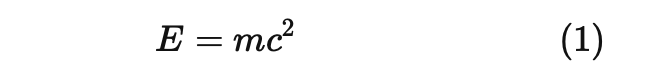
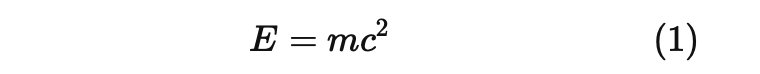
Drop the smash formula from the comparison, and keep a widened crop within the page

Changed region(s): [[0.2108, 0.2432, 0.512, 0.7027], [0.8434, 0.2973, 0.9337, 0.8108]]

diff --git a/test/screenshots/content.html b/test/screenshots/content.html
@@ -61,7 +61,3 @@
 <!-- wp:math -->
 <div class="wp-block-math"><math display="block"><semantics><mrow><mrow><munder><munder><mrow><msub><mi>x</mi><mn>1</mn></msub><mo>+</mo><msub><mi>x</mi><mn>2</mn></msub><mo>+</mo><mo>⋯</mo><mo>+</mo><msub><mi>x</mi><mi>n</mi></msub></mrow><mo stretchy="true" style="math-depth:0;">⏟</mo></munder><mrow><mi>n</mi><mtext> terms</mtext></mrow></munder></mrow><mo>=</mo><mrow><mover><mover><mi>y</mi><mo stretchy="true" style="math-depth:0;">⏞</mo></mover><mpadded lspace="-0.5width" width="0px" style="display:flex;justify-content:center;"><mtext>wide label here</mtext></mpadded></mover></mrow></mrow><annotation encoding="application/x-tex">\underbrace{x_1 + x_2 + \cdots + x_n}_{n \text{ terms}} = \overbrace{y}^{\mathclap{\text{wide label here}}}</annotation></semantics></math></div>
 <!-- /wp:math -->
-
-<!-- wp:math -->
-<div class="wp-block-math"><math display="block"><semantics><mrow><mi>a</mi><mpadded height="0px" depth="0px"><mfrac><mn>1</mn><mn>2</mn></mfrac></mpadded><mi>b</mi></mrow><annotation encoding="application/x-tex">a \smash{\frac{1}{2}} b</annotation></semantics></math></div>
-<!-- /wp:math -->

diff --git a/test/screenshots/compare.spec.js b/test/screenshots/compare.spec.js
@@ -143,16 +143,18 @@ test( 'each formula with and without the plugin @screenshots', async ( {
 		for ( const [ id, pair ] of Object.entries( boxes ) ) {
 			const box = pair[ name ];
 			const width = Math.max( pair.mathml.width, pair.katex.width );
+			// Centred on the formula, but kept within the page, which
+			// would otherwise cut the clip short (a tagged equation sits
+			// at the right edge).
+			const x = Math.min(
+				Math.max( box.x - ( width - box.width ) / 2, 0 ),
+				page.viewportSize().width - width
+			);
 			await page.screenshot( {
 				path: path.join( dir, `${ id }-${ name }.png` ),
 				scale: 'device',
 				fullPage: true,
-				clip: {
-					x: box.x - ( width - box.width ) / 2,
-					y: box.y,
-					width,
-					height: box.height,
-				},
+				clip: { x, y: box.y, width, height: box.height },
 			} );
 		}
 	}

diff --git a/README.md b/README.md
@@ -28,13 +28,12 @@ Each formula as the browser renders the MathML on the left and as KaTeX renders 
 | `\hat{x} + \vec{v} + \widehat{abc} + \overline{z} + \tilde{n} + \dot{y}` | <img src="screenshots/chromium/07-mathml.png" width="201"> | <img src="screenshots/chromium/07-katex.png" width="201"> |
 | `\overbrace{a + b + c}^{\text{sum}} + \underbrace{d \cdot e}_{\text{product}}` | <img src="screenshots/chromium/08-mathml.png" width="149"> | <img src="screenshots/chromium/08-katex.png" width="149"> |
 | `\boxed{E = mc^2}` | <img src="screenshots/chromium/09-mathml.png" width="95"> | <img src="screenshots/chromium/09-katex.png" width="95"> |
-| `E = mc^2 \tag{1}` | <img src="screenshots/chromium/10-mathml.png" width="392"> | <img src="screenshots/chromium/10-katex.png" width="338"> |
+| `E = mc^2 \tag{1}` | <img src="screenshots/chromium/10-mathml.png" width="392"> | <img src="screenshots/chromium/10-katex.png" width="392"> |
 | `\cancel{a} + \bcancel{b} + \xcancel{c} + \sout{d}` | <img src="screenshots/chromium/11-mathml.png" width="114"> | <img src="screenshots/chromium/11-katex.png" width="114"> |
 | `A \xrightarrow{\;f\;} B \xleftarrow[\text{under}]{\text{over}} C \xrightleftharpoons{k} D` | <img src="screenshots/chromium/12-mathml.png" width="207"> | <img src="screenshots/chromium/12-katex.png" width="207"> |
 | `\begin{CD} A @>a>> B \\ @VbVV @VVcV \\ C @>>d> D \end{CD}` | <img src="screenshots/chromium/13-mathml.png" width="153"> | <img src="screenshots/chromium/13-katex.png" width="153"> |
 | `\sum_{\substack{0 < i < m \\ 0 < j < n}} P(i, j)` | <img src="screenshots/chromium/14-mathml.png" width="116"> | <img src="screenshots/chromium/14-katex.png" width="116"> |
 | `\underbrace{x_1 + x_2 + \cdots + x_n}_{n \text{ terms}} = \overbrace{y}^{\mathclap{\text{wide label here}}}` | <img src="screenshots/chromium/15-mathml.png" width="275"> | <img src="screenshots/chromium/15-katex.png" width="275"> |
-| `a \smash{\frac{1}{2}} b` | <img src="screenshots/chromium/16-mathml.png" width="43"> | <img src="screenshots/chromium/16-katex.png" width="43"> |
 
 ### Safari
 
@@ -50,13 +49,12 @@ Each formula as the browser renders the MathML on the left and as KaTeX renders 
 | `\hat{x} + \vec{v} + \widehat{abc} + \overline{z} + \tilde{n} + \dot{y}` | <img src="screenshots/webkit/07-mathml.png" width="213"> | <img src="screenshots/webkit/07-katex.png" width="213"> |
 | `\overbrace{a + b + c}^{\text{sum}} + \underbrace{d \cdot e}_{\text{product}}` | <img src="screenshots/webkit/08-mathml.png" width="149"> | <img src="screenshots/webkit/08-katex.png" width="149"> |
 | `\boxed{E = mc^2}` | <img src="screenshots/webkit/09-mathml.png" width="95"> | <img src="screenshots/webkit/09-katex.png" width="95"> |
-| `E = mc^2 \tag{1}` | <img src="screenshots/webkit/10-mathml.png" width="380"> | <img src="screenshots/webkit/10-katex.png" width="332"> |
+| `E = mc^2 \tag{1}` | <img src="screenshots/webkit/10-mathml.png" width="380"> | <img src="screenshots/webkit/10-katex.png" width="380"> |
 | `\cancel{a} + \bcancel{b} + \xcancel{c} + \sout{d}` | <img src="screenshots/webkit/11-mathml.png" width="116"> | <img src="screenshots/webkit/11-katex.png" width="116"> |
 | `A \xrightarrow{\;f\;} B \xleftarrow[\text{under}]{\text{over}} C \xrightleftharpoons{k} D` | <img src="screenshots/webkit/12-mathml.png" width="207"> | <img src="screenshots/webkit/12-katex.png" width="207"> |
 | `\begin{CD} A @>a>> B \\ @VbVV @VVcV \\ C @>>d> D \end{CD}` | <img src="screenshots/webkit/13-mathml.png" width="146"> | <img src="screenshots/webkit/13-katex.png" width="146"> |
 | `\sum_{\substack{0 < i < m \\ 0 < j < n}} P(i, j)` | <img src="screenshots/webkit/14-mathml.png" width="109"> | <img src="screenshots/webkit/14-katex.png" width="109"> |
 | `\underbrace{x_1 + x_2 + \cdots + x_n}_{n \text{ terms}} = \overbrace{y}^{\mathclap{\text{wide label here}}}` | <img src="screenshots/webkit/15-mathml.png" width="276"> | <img src="screenshots/webkit/15-katex.png" width="276"> |
-| `a \smash{\frac{1}{2}} b` | <img src="screenshots/webkit/16-mathml.png" width="43"> | <img src="screenshots/webkit/16-katex.png" width="43"> |
 
 ### Firefox
 
@@ -78,7 +76,6 @@ Each formula as the browser renders the MathML on the left and as KaTeX renders 
 | `\begin{CD} A @>a>> B \\ @VbVV @VVcV \\ C @>>d> D \end{CD}` | <img src="screenshots/firefox/13-mathml.png" width="150"> | <img src="screenshots/firefox/13-katex.png" width="150"> |
 | `\sum_{\substack{0 < i < m \\ 0 < j < n}} P(i, j)` | <img src="screenshots/firefox/14-mathml.png" width="121"> | <img src="screenshots/firefox/14-katex.png" width="121"> |
 | `\underbrace{x_1 + x_2 + \cdots + x_n}_{n \text{ terms}} = \overbrace{y}^{\mathclap{\text{wide label here}}}` | <img src="screenshots/firefox/15-mathml.png" width="276"> | <img src="screenshots/firefox/15-katex.png" width="276"> |
-| `a \smash{\frac{1}{2}} b` | <img src="screenshots/firefox/16-mathml.png" width="43"> | <img src="screenshots/firefox/16-katex.png" width="43"> |
 
 <!-- screenshots:end -->
 
